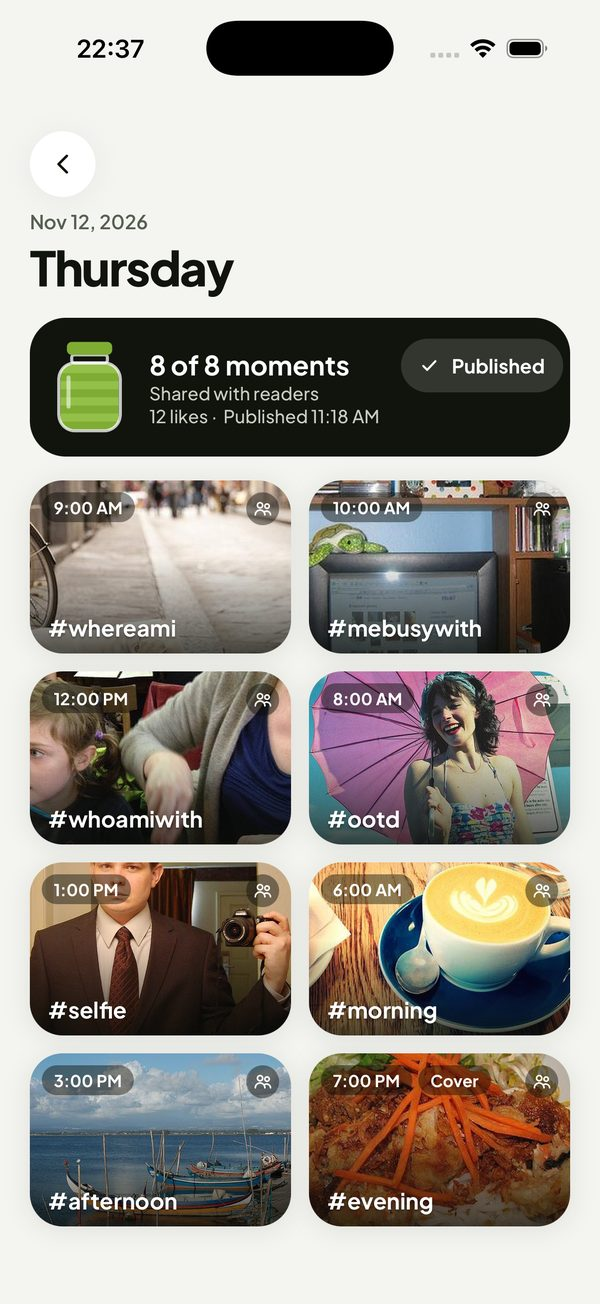
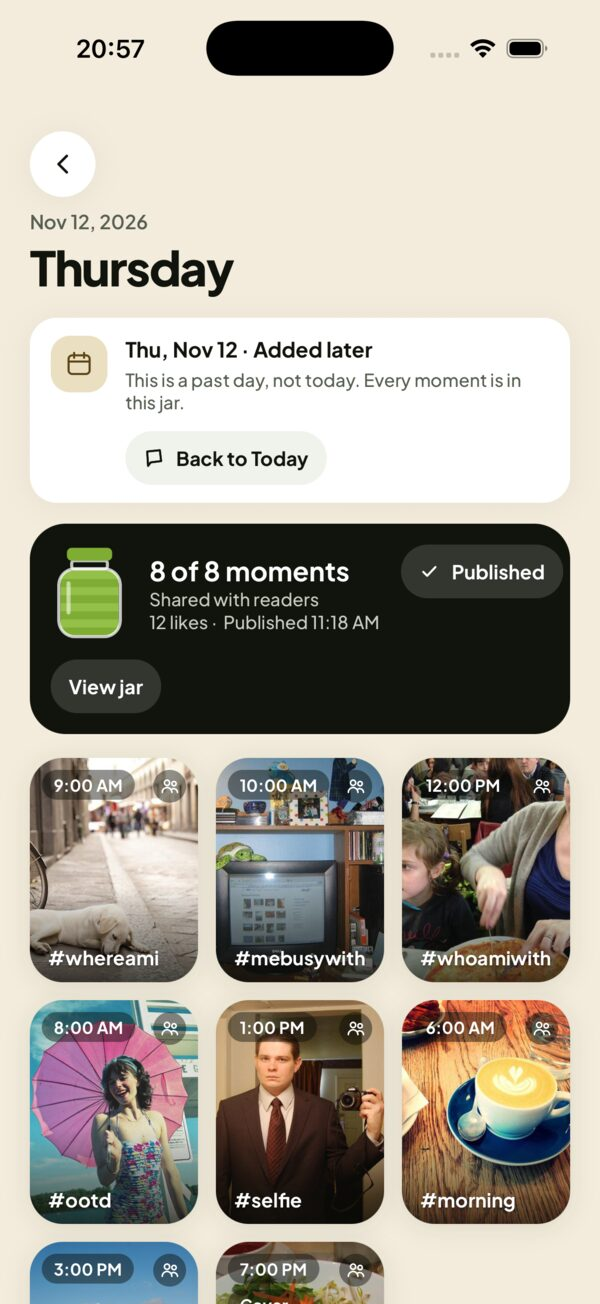
FR-WEB-01: current app screenshots for Snap, Decorate and Share, steps without boxes
The three steps sit on the page instead of white boxes, and each shows a fresh
iPhone 17 Pro capture of today's app: the day screen, the editor's filters and
the Share jar screen (which replaces the exported Story card).

Amp-Thread-ID: https://ampcode.com/threads/T-01a1e8aa-7a6f-704a-86bd-f03c08f53db8

diff --git a/apps/web/src/marketing/styles.ts b/apps/web/src/marketing/styles.ts
@@ -77,8 +77,8 @@ export const css = `
 .mk-ideas{display:flex;flex-wrap:wrap;gap:8px;list-style:none;margin:0;padding:0}
 .mk-ideas li{background:${colors.surface};color:${colors.ink};border-radius:${radius.pill}px;padding:8px 14px;font-size:15px;line-height:1.35}
 .mk-rows-page{margin-top:48px}
-.mk-panels{list-style:none;margin:0;padding:0;display:flex;flex-direction:column;gap:20px}
-.mk-panel{background:${colors.surface};border-radius:${radius.card}px;padding:32px 22px;overflow:hidden}
+.mk-panels{list-style:none;margin:0;padding:0;display:flex;flex-direction:column;gap:56px}
+.mk-panel{padding:8px 0}
 .mk-panel h3{font-size:clamp(26px,5vw,34px);letter-spacing:-.03em;margin-top:14px}
 .mk-panel .mk-lead{margin-top:12px}
 .mk-step-n{display:inline-flex;align-items:center;justify-content:center;width:40px;height:40px;border-radius:50%;background:${colors.brandTint};color:${colors.brandText};font-weight:800;font-size:18px}
@@ -147,7 +147,7 @@ export const css = `
 @media (min-width:720px){
   .mk-chips{grid-template-columns:repeat(4,minmax(0,1fr))}
   .mk-cards{grid-template-columns:repeat(3,minmax(0,1fr))}
-  .mk-panel{padding:48px 56px}
+  .mk-panels{gap:72px}
   .mk-cards.mk-cards-2{grid-template-columns:repeat(2,minmax(0,1fr))}
   .mk-grid{grid-template-columns:repeat(6,minmax(0,1fr))}
   .mk-olivia{grid-template-columns:repeat(8,minmax(0,1fr))}

diff --git a/apps/web/src/marketing/shots.ts b/apps/web/src/marketing/shots.ts
@@ -5,7 +5,7 @@ export { default as filters } from './shots/filters.jpg';
 export { default as jar } from './shots/jar.jpg';
 export { default as memories } from './shots/memories.jpg';
 export { default as pack } from './shots/pack.jpg';
+export { default as share } from './shots/share.jpg';
 export { default as shop } from './shots/shop.jpg';
 export { default as stickers } from './shots/stickers.jpg';
-export { default as story } from './shots/story.jpg';
 export { default as widget } from './shots/widget.jpg';

diff --git a/apps/web/src/app/(marketing)/page.tsx b/apps/web/src/app/(marketing)/page.tsx
@@ -28,7 +28,7 @@ const olivia = pack('olivia').stickers;
 const steps = [
   ['snap', shot.day],
   ['decorate', shot.filters],
-  ['share', shot.story],
+  ['share', shot.share],
 ] as const;
 const points = ['p1', 'p2', 'p3', 'p4'] as const;
 const controls = ['private', 'location', 'mute', 'block', 'discover', 'teens'] as const;
